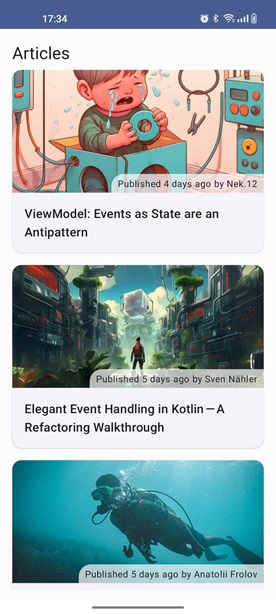
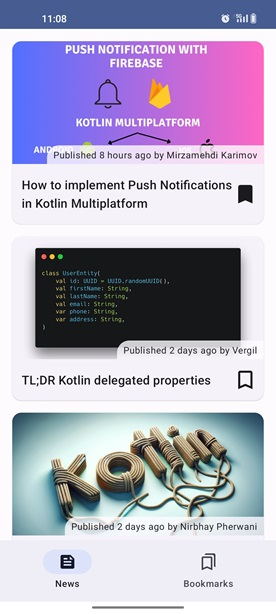
update README.md screenshots and small notes

diff --git a/README.md b/README.md
@@ -1,9 +1,7 @@
 # ProAndroidDev Reader
-WORK IN PROGRESS... first complete version by 3rd December 2023
-
 A demo application to show Android articles from https://proandroiddev.com/.
 
-![screenshot](docs/screenshot.jpg)
+![screenshot](docs/screenshot.jpg) ![screenshot](docs/screenshot1.jpg)
 
 If you found the articles are useful, please support writers by subscribing to the website. Thank you.
 
@@ -22,5 +20,6 @@ If you found the articles are useful, please support writers by subscribing to t
 - more...
 
 # Upcoming features
-- Bookmark articles
+- ~~Bookmark articles~~ DONE
+- Get a notification when there is a new news
 - more...
